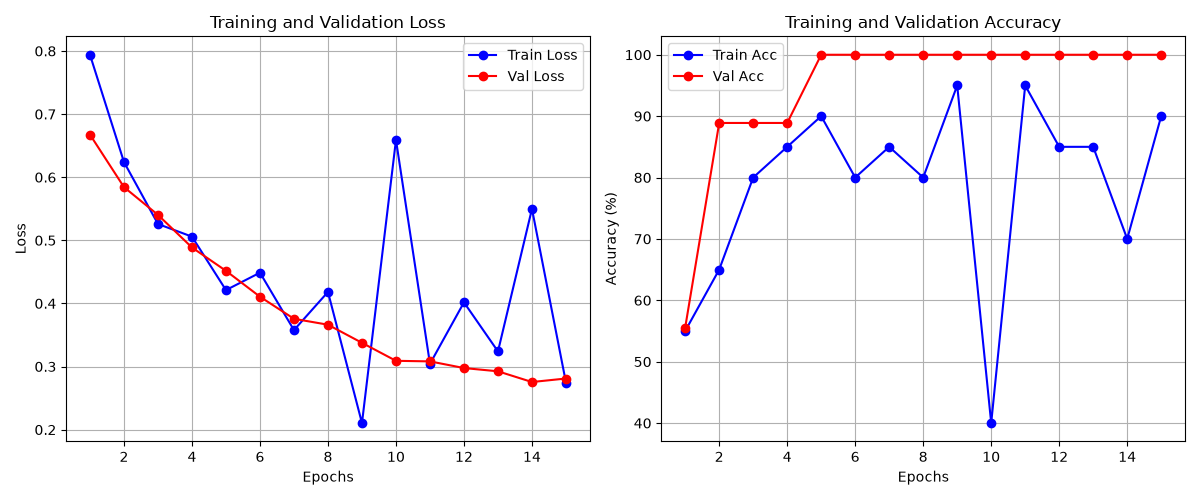
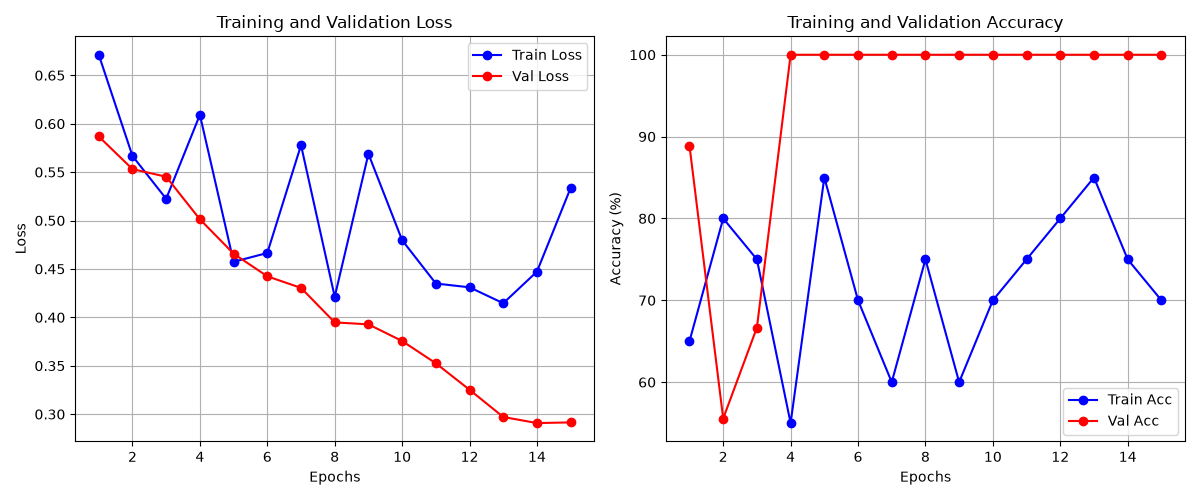
replacing

diff --git a/train.py b/train.py
@@ -195,6 +195,7 @@ def main():
             print(f"  --> Best model updated and saved (Val Acc: {best_val_acc*100:.1f}%, Val Loss: {best_val_loss:.4f})")
 
     print("train_losses : ", train_losses)
+    print("size of train_loss : ", len(train_losses))
     print("train_accs : ", train_accs)
     print("val_losses : ", val_losses)
     print("val_accs : ", val_accs)
